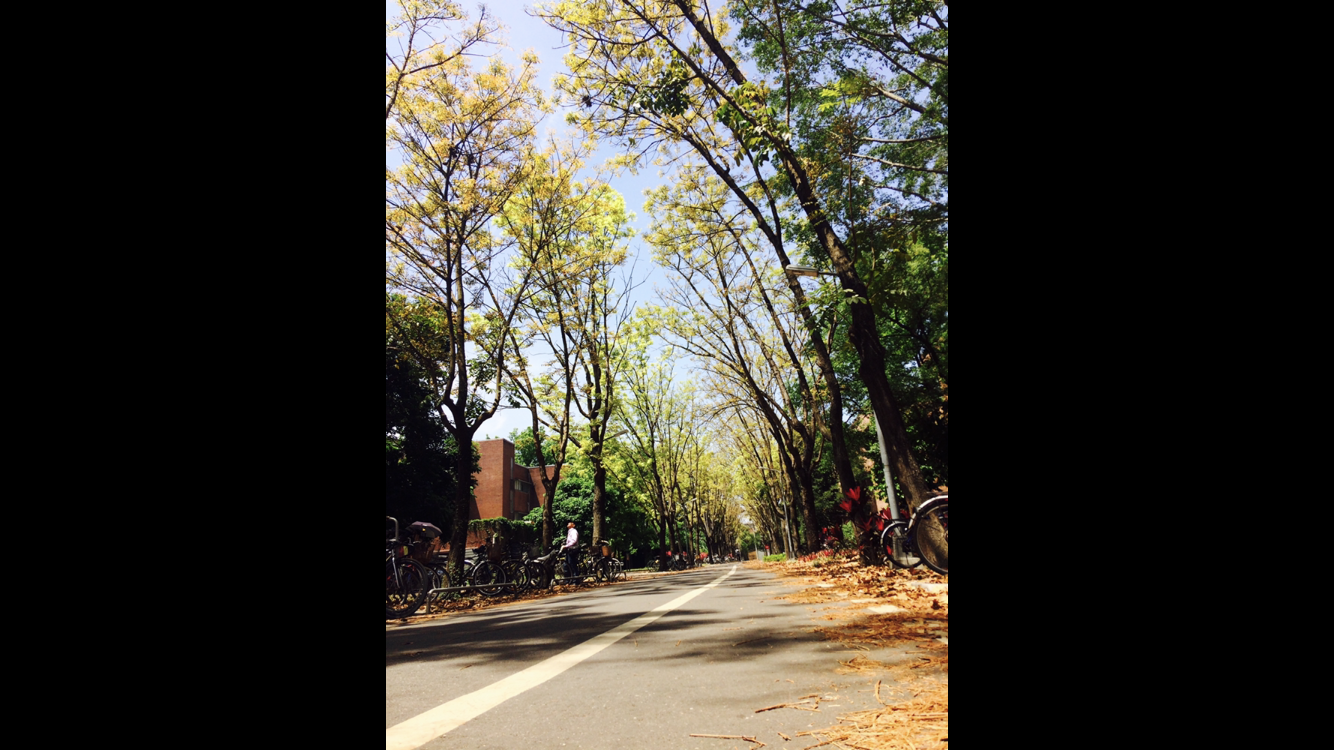
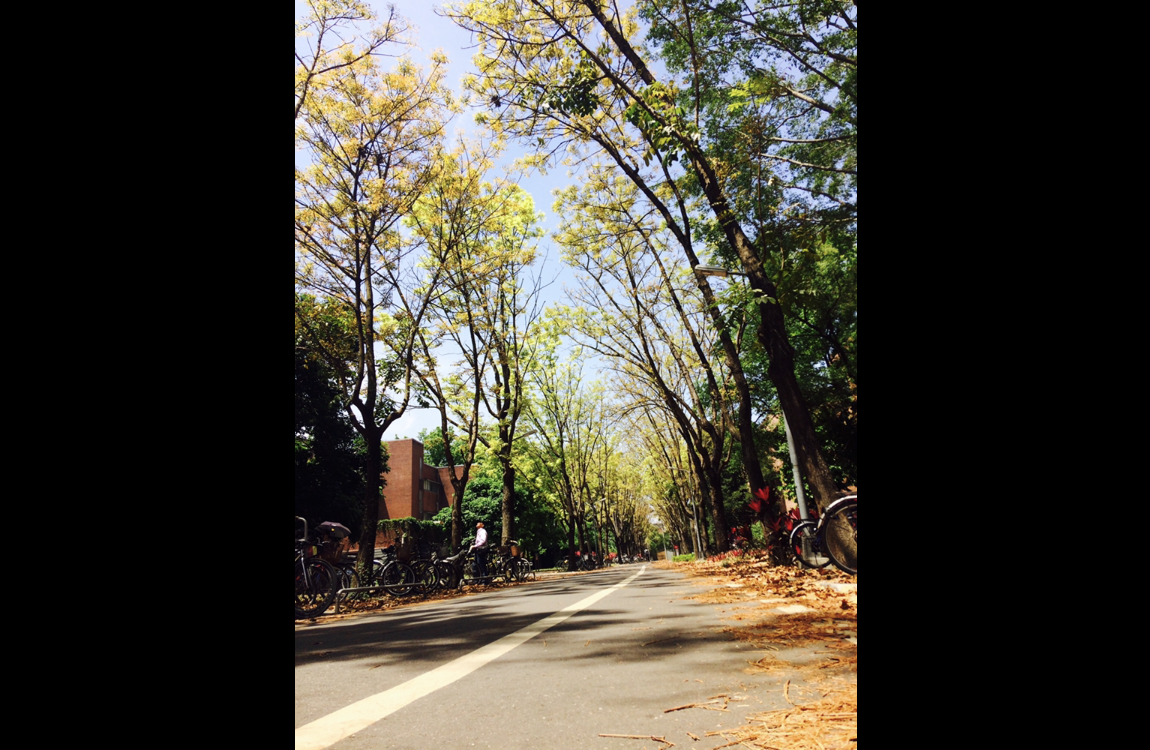
add bbq

diff --git a/portfolio.html b/portfolio.html
@@ -99,7 +99,7 @@
 							</a>
 						</div>
 						<div class="col-md-4 ftco-animate">
-							<a href="images/image_4.jpg" class="photography-entry img image-popup d-flex justify-content-start align-items-end" style="background-image: url(images/image_4.jpg);">
+							<a href="images/NTU_2.PNG" class="photography-entry img image-popup d-flex justify-content-start align-items-end" style="background-image: url(images/NTU_1.PNG);">
 								<div class="overlay"></div>
 								<div class="text ml-4 mb-4">
 									<h3>Photo 04</h3>
